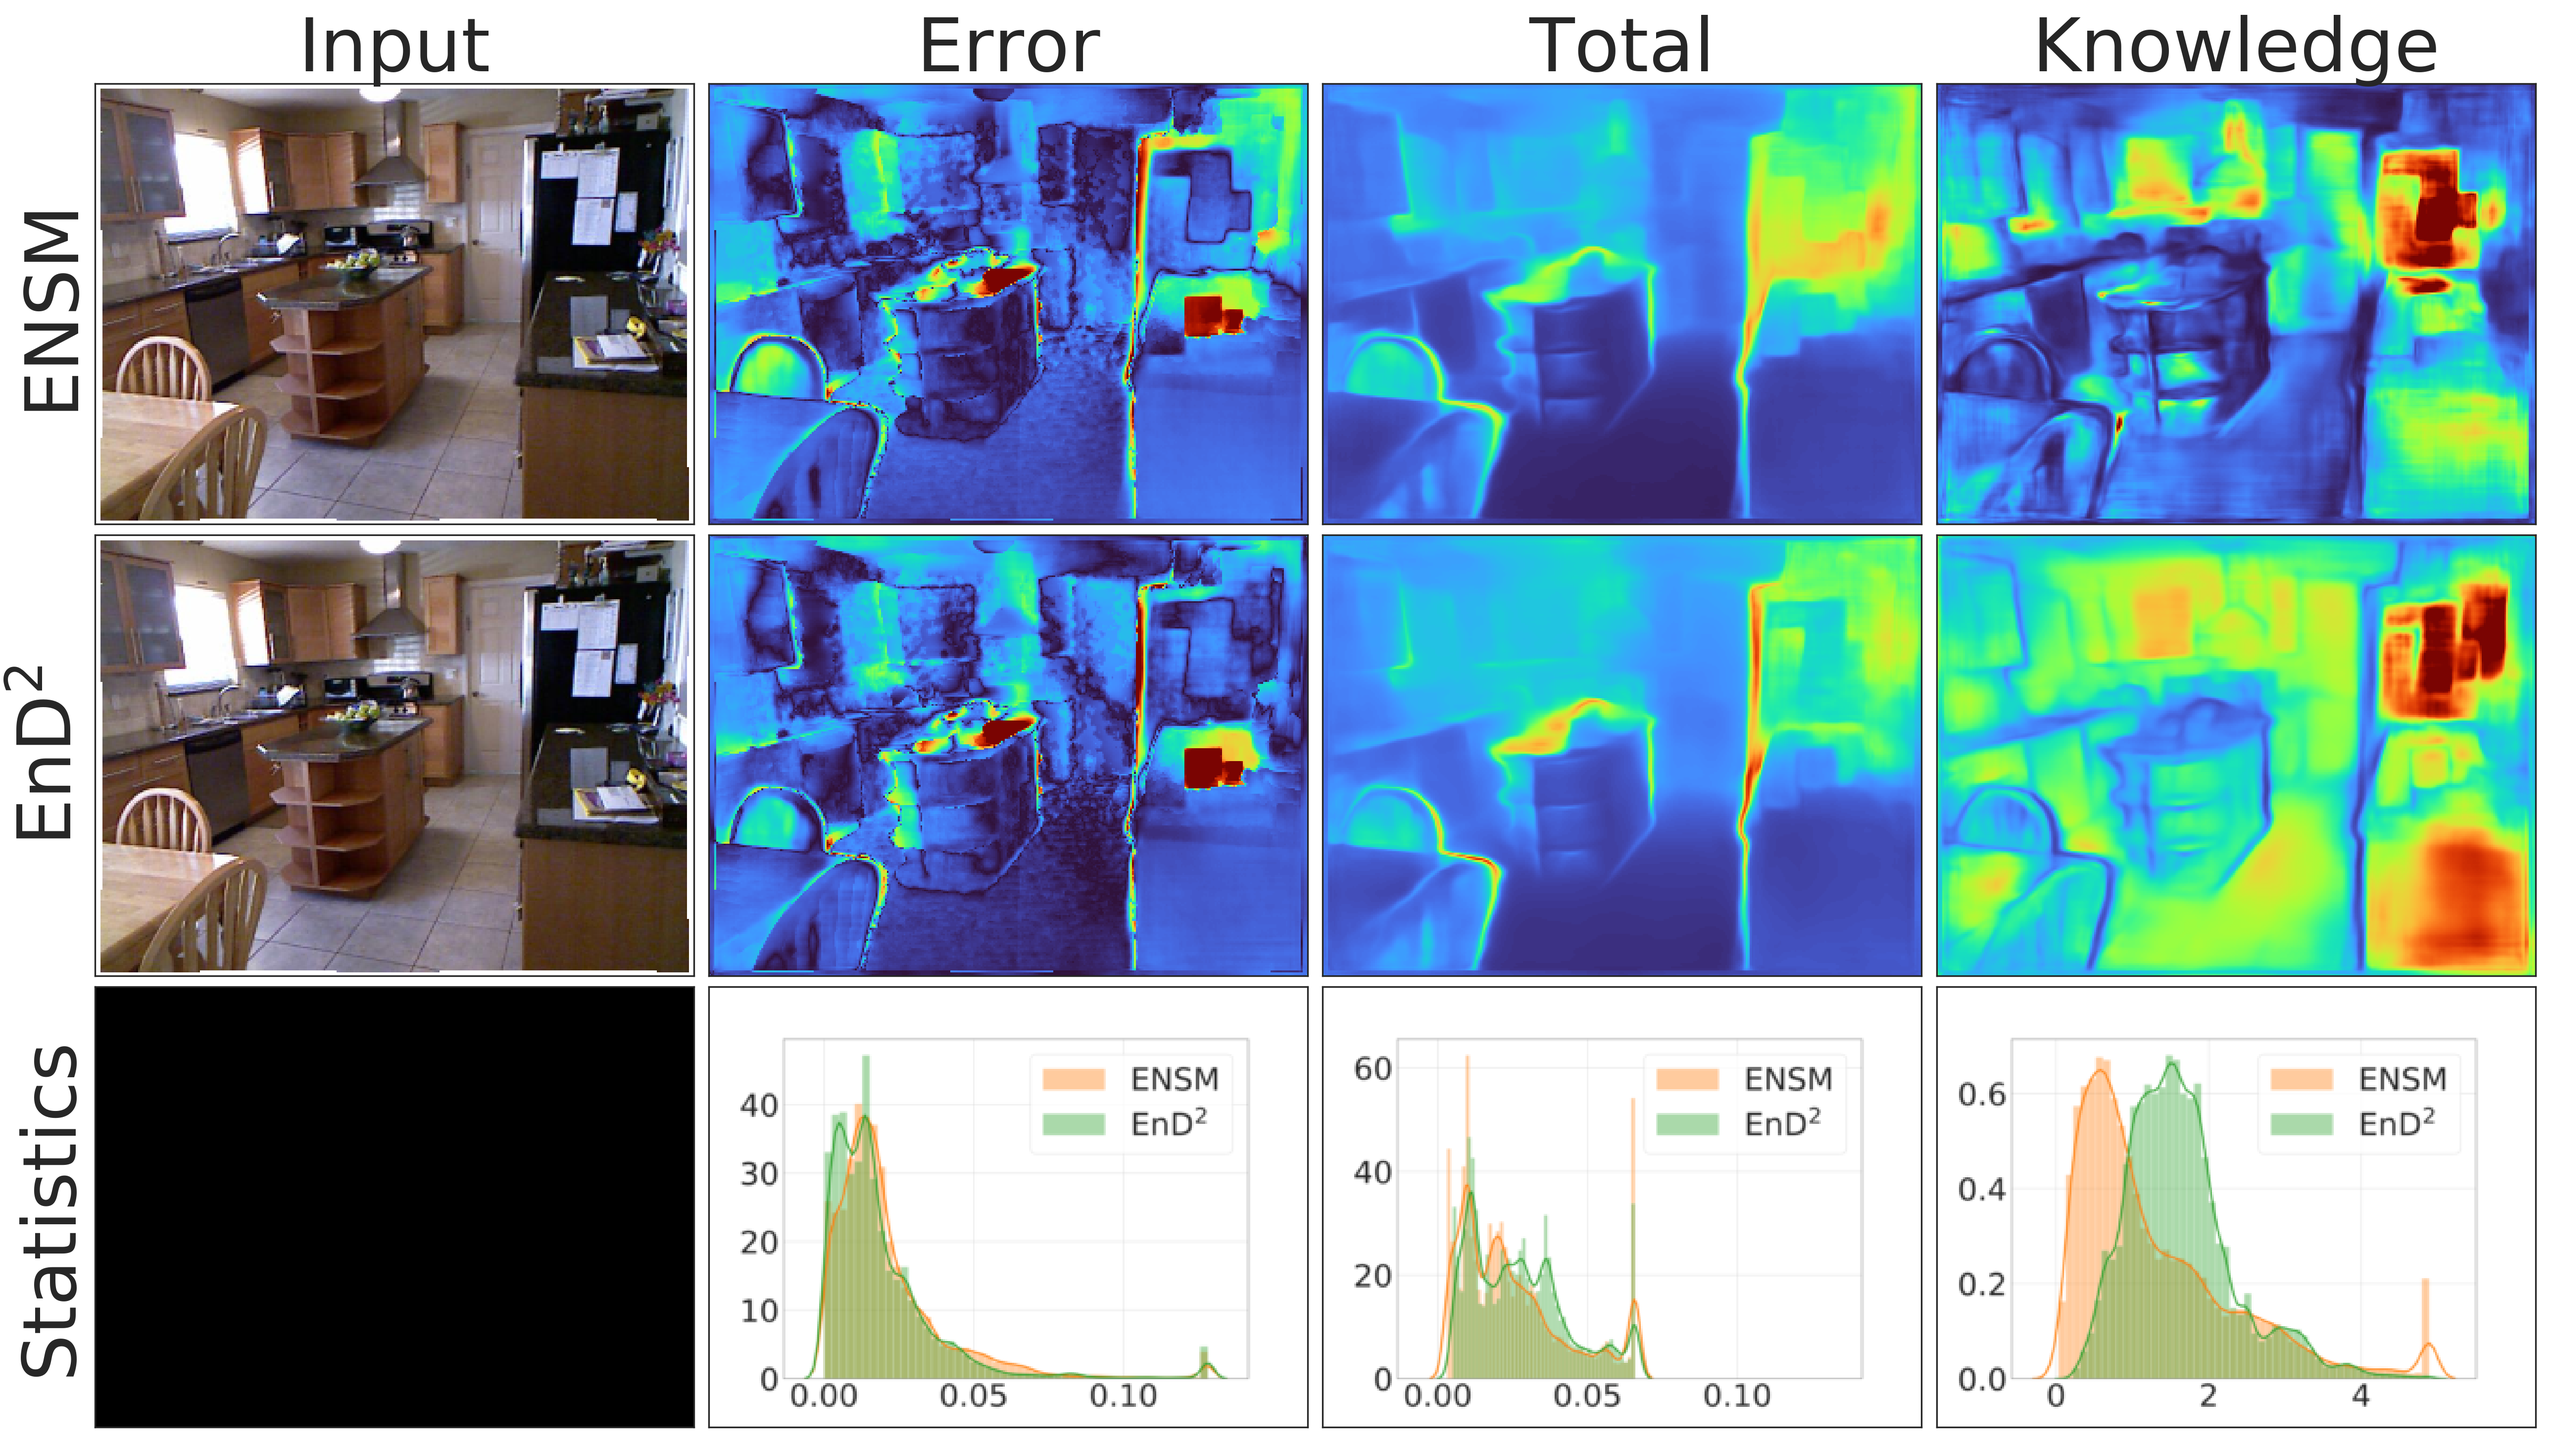
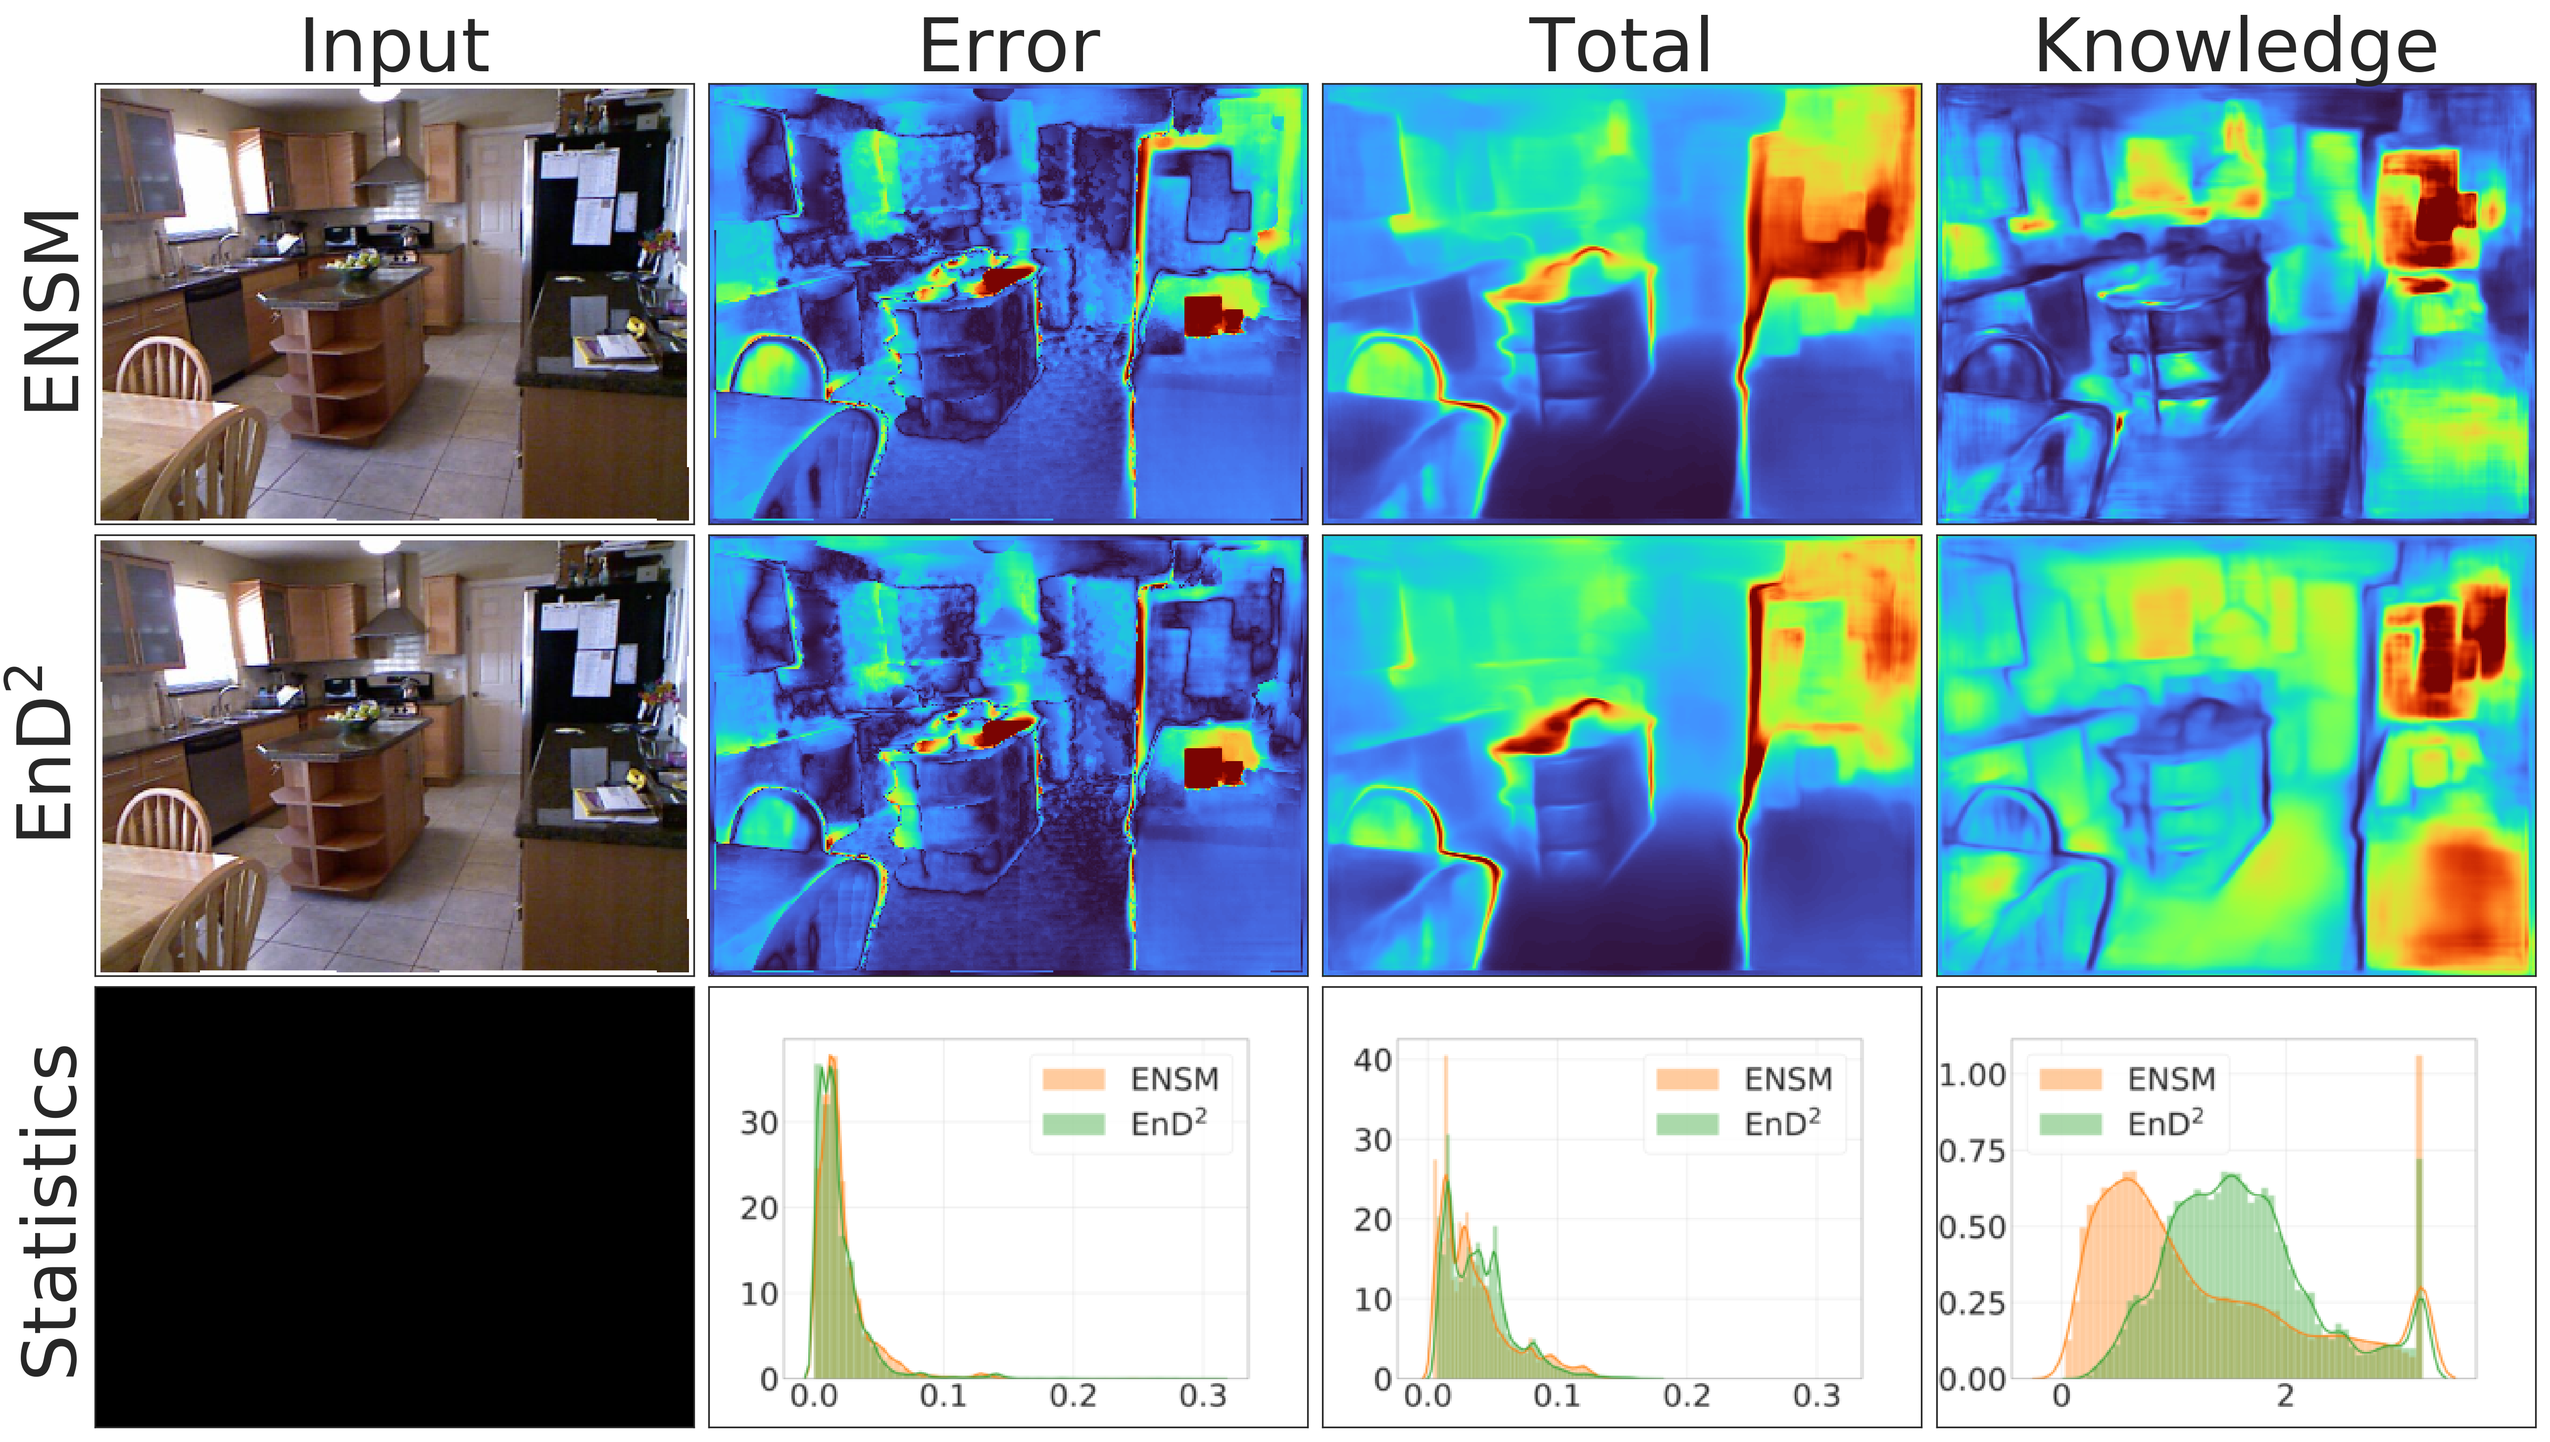
Fixed visualization, started adding model trainers

diff --git a/training/distribution_trainer.py b/training/distribution_trainer.py
@@ -1,0 +1,116 @@
+"""
+Train a single model that was wrapped with our distribution wrappers.
+Use either NLL or RKL-based objectives
+"""
+from time import time
+import datetime
+
+import torch
+import torch.nn as nn
+
+from distributions.distribution_wrappers import ProbabilisticWrapper
+from utils.func_utils import AverageMeter
+
+
+class SingleDistributionTrainer:
+    def __init__(
+        self, model: ProbabilisticWrapper, optimizer, logger,
+        optimizer_args={'lr': 1e-4, 'amsgrad': True},
+        epochs=20, additional_params={'targets_transform': 'scaled'}
+    ):
+        self.model = model
+        self.device = self.model.model.device
+        self.epochs = epochs
+        self.optimizer = torch.optim.Adam(
+            self.model.parameters(), *optimizer_args
+        )
+        self.logger = logger
+        self.loss_stats, self.timing_stats = [AverageMeter() for _ in range(2)]
+
+    def train_step(self, batch):
+        inputs, targets = batch['image'].to(self.device), \
+            batch['depth'].to(self.device)
+        batch_size = inputs.size(0)
+        # Normalize depth
+        targets_n = DepthNorm(
+            targets,
+            transform_type=self.additional_params['targets_transform']
+        )
+        # Predict & get loss
+        output_distr = model(inputs)
+        loss = self.loss_fn(targets_n).mean()
+        return loss, batch_size
+
+    def update_step(self, loss):
+        loss.backward()
+        nn.utils.clip_grad_norm_(model.parameters(), 0.5)
+        self.optimizer.step()
+
+    def train(self, train_loader, val_loader, save_path=None, load_path=None):
+        global_step = 0
+
+        if load_path is not None:
+            init_epoch = self.load_current_state(load_path)
+
+        for epoch in range(init_epoch, self.epochs):
+            self.loss_stats.reset()
+            self.timing_stats.reset()
+
+            start_time = time()
+            for i, batch in enumerate(train_loader):
+                current_step = global_step + i
+
+                self.optimizer.zero_grad()
+                loss, batch_size = self.train_step(batch)
+                self.update_step(loss)
+
+                elapsed_time = time() - start_time
+                start_time = time()
+                self.timing_stats.update(elapsed_time)
+                self.loss_stats.update(loss.item(), batch_size)
+
+                self.logging_step(val_loader, current_step, epoch, i)
+
+            global_step += len(train_loader)
+
+            self.eval_step(val_loader, global_step, epoch)
+            if save_path is not None:
+                self.save_current_state(save_path, global_step)
+
+    def logging_step(self, val_loader, current_step, epoch, step_idx):
+        self.logger.add_scalar('Train/Loss', self.loss_stats.val, current_step)
+        if current_step % 300 == 0:
+            steps_per_epoch = int((current_step - step_idx) / epoch)
+            eta = str(datetime.timedelta(
+                seconds=int(
+                    self.timing_stats.val * steps_per_epoch - step_idx
+                )
+            ))
+            # Print to console and log val
+            print(
+                'Epoch: [{0}][{1}/{2}]\t'
+                'Time {batch_time.val:.3f} ({batch_time.sum:.3f})\t'
+                'ETA {eta}\t'
+                'Loss {loss.val:.4f} ({loss.avg:.4f})'.format(
+                    epoch, step_idx, steps_per_epoch,
+                    batch_time=self.timing_stats,
+                    loss=self.loss_stats, eta=eta
+                )
+            )
+            # Record intermediate results
+            self.show_examples_and_get_metrics(val_loader, current_step)
+            self.model.train()
+
+    def eval_step(self, val_loader, current_step, epoch):
+        self.model.eval()
+        self.show_examples_and_get_metrics(val_loader, current_step)
+        self.logger.add_scalar('Train/Loss.avg', self.loss_stats.avg, epoch)
+
+    def show_examples_and_get_metrics(self, val_loader, current_step):
+        raise NotImplementedError
+
+    def save_current_state(self, save_path, global_step):
+        raise NotImplementedError
+
+    def load_current_state(self, load_path):
+        raise NotImplementedError

diff --git a/evaluation/show_examples.py b/evaluation/show_examples.py
@@ -53,7 +53,9 @@ def show_model_examples(
         measure_maps[measure] = all_measures
         # Transform all variances to standard deviations
         if 'variance' in measure:
-            measure_maps[measure] = [m.pow(0.5) for m in all_measures]
+            measure_maps[measure] = [
+                np.sqrt(2) * m.pow(0.5) for m in all_measures
+            ]
 
     # Save difference & unc measures stats to plot histograms
     all_hists = {}
@@ -73,7 +75,11 @@ def show_model_examples(
 
     plot_diffs = torch.from_numpy(np.array([
         turbo_cm(
-            standartize_array(diffs[i].squeeze(), 0.0, max_limits[i])
+            standartize_array(
+                diffs[i].squeeze(),
+                np.percentile(diffs[i], 0),
+                max_limits[i]
+            )
         )[..., :3]
         for i in range(len(diffs))
     ])).permute(0, 3, 1, 2)
@@ -84,7 +90,8 @@ def show_model_examples(
             normalized_measures = [
                 standartize_array(
                     measure_maps[measure][i].squeeze(),
-                    0.0, max_limits[i]
+                    np.percentile(measure_maps[measure][i], 0),
+                    max_limits[i]
                 )
                 for i in range(len(diffs))
             ]
@@ -92,7 +99,8 @@ def show_model_examples(
             normalized_measures = [
                 standartize_array(
                     measure_maps[measure][i].squeeze(),
-                    0.0, np.percentile(measure_maps[measure][i], 99)
+                    np.percentile(measure_maps[measure][i], 0),
+                    np.percentile(measure_maps[measure][i], 99)
                 )
                 for i in range(len(diffs))
             ]

diff --git a/get_nyu_samples.py b/get_nyu_samples.py
@@ -86,8 +86,11 @@ if __name__ == '__main__':
         else:
             results = show_model_examples(
                 model, rgb, depth, all_indices,
-                args.measures, args.targets_transform, args.device, max_limits
+                args.measures, args.targets_transform, args.device,
+                (None if 'gaussian' in model_type else max_limits)
             )
+            if 'gaussian' in model_type:
+                max_limits = results[-1]
             all_results[model_type] = results
 
     model_names = ['gaussian', 'gaussian-ensemble', 'nw_prior']
@@ -99,15 +102,16 @@ if __name__ == '__main__':
     for i, idx in enumerate(args.indices):
         ensm_data, endd_data = [[
             all_results[model_n][0][i],
-            all_results[model_n][2][i],
-            all_results[model_n][3]['total_variance'][i],
-            all_results[model_n][3]['expected_pairwise_kl'][i]
+            all_results[model_n][2][i]
+        ] + [
+            all_results[model_n][3][measure][i]
+            for measure in args.measures
         ] for model_n in ['gaussian-ensemble', 'nw_prior']]
         figure = get_example_figure(
             ensm_data, endd_data, all_hists[i*4:i*4+4]
         )
         figure.savefig(
-            'plots/example_' + args.data_type + '_' + str(idx) + '.png',
+            'temp_plots/example_' + args.data_type + '_' + str(idx) + '.png',
             dpi=300, bbox_inches='tight'
         )
         plt.clf()

diff --git a/utils/func_utils.py b/utils/func_utils.py
@@ -74,6 +74,23 @@ def rel_error(value1, value2):
     return diff_norm / (value1_norm.pow(0.5) * value2_norm.pow(0.5))
 
 
+class AverageMeter(object):
+    def __init__(self):
+        self.reset()
+
+    def reset(self):
+        self.val = 0
+        self.avg = 0
+        self.sum = 0
+        self.count = 0
+
+    def update(self, val, n=1):
+        self.val = val
+        self.sum += val * n
+        self.count += n
+        self.avg = self.sum / self.count
+
+
 if __name__ == '__main__':
     from scipy.special import digamma
 

diff --git a/utils/viz_utils.py b/utils/viz_utils.py
@@ -65,7 +65,7 @@ def get_tensor_with_histograms(results_dict, plot_names, model_names):
             plt.figure(figsize=(13.33, 10))
             plt.rc('font', size=50)
 
-            max_p = 95 if 'variance' in key else 99
+            max_p = 95 if key == 'expected_pairwise_kl' else 100
             c_max = np.percentile(
                 np.concatenate([
                     results_dict[m_name][1][key][ind]
